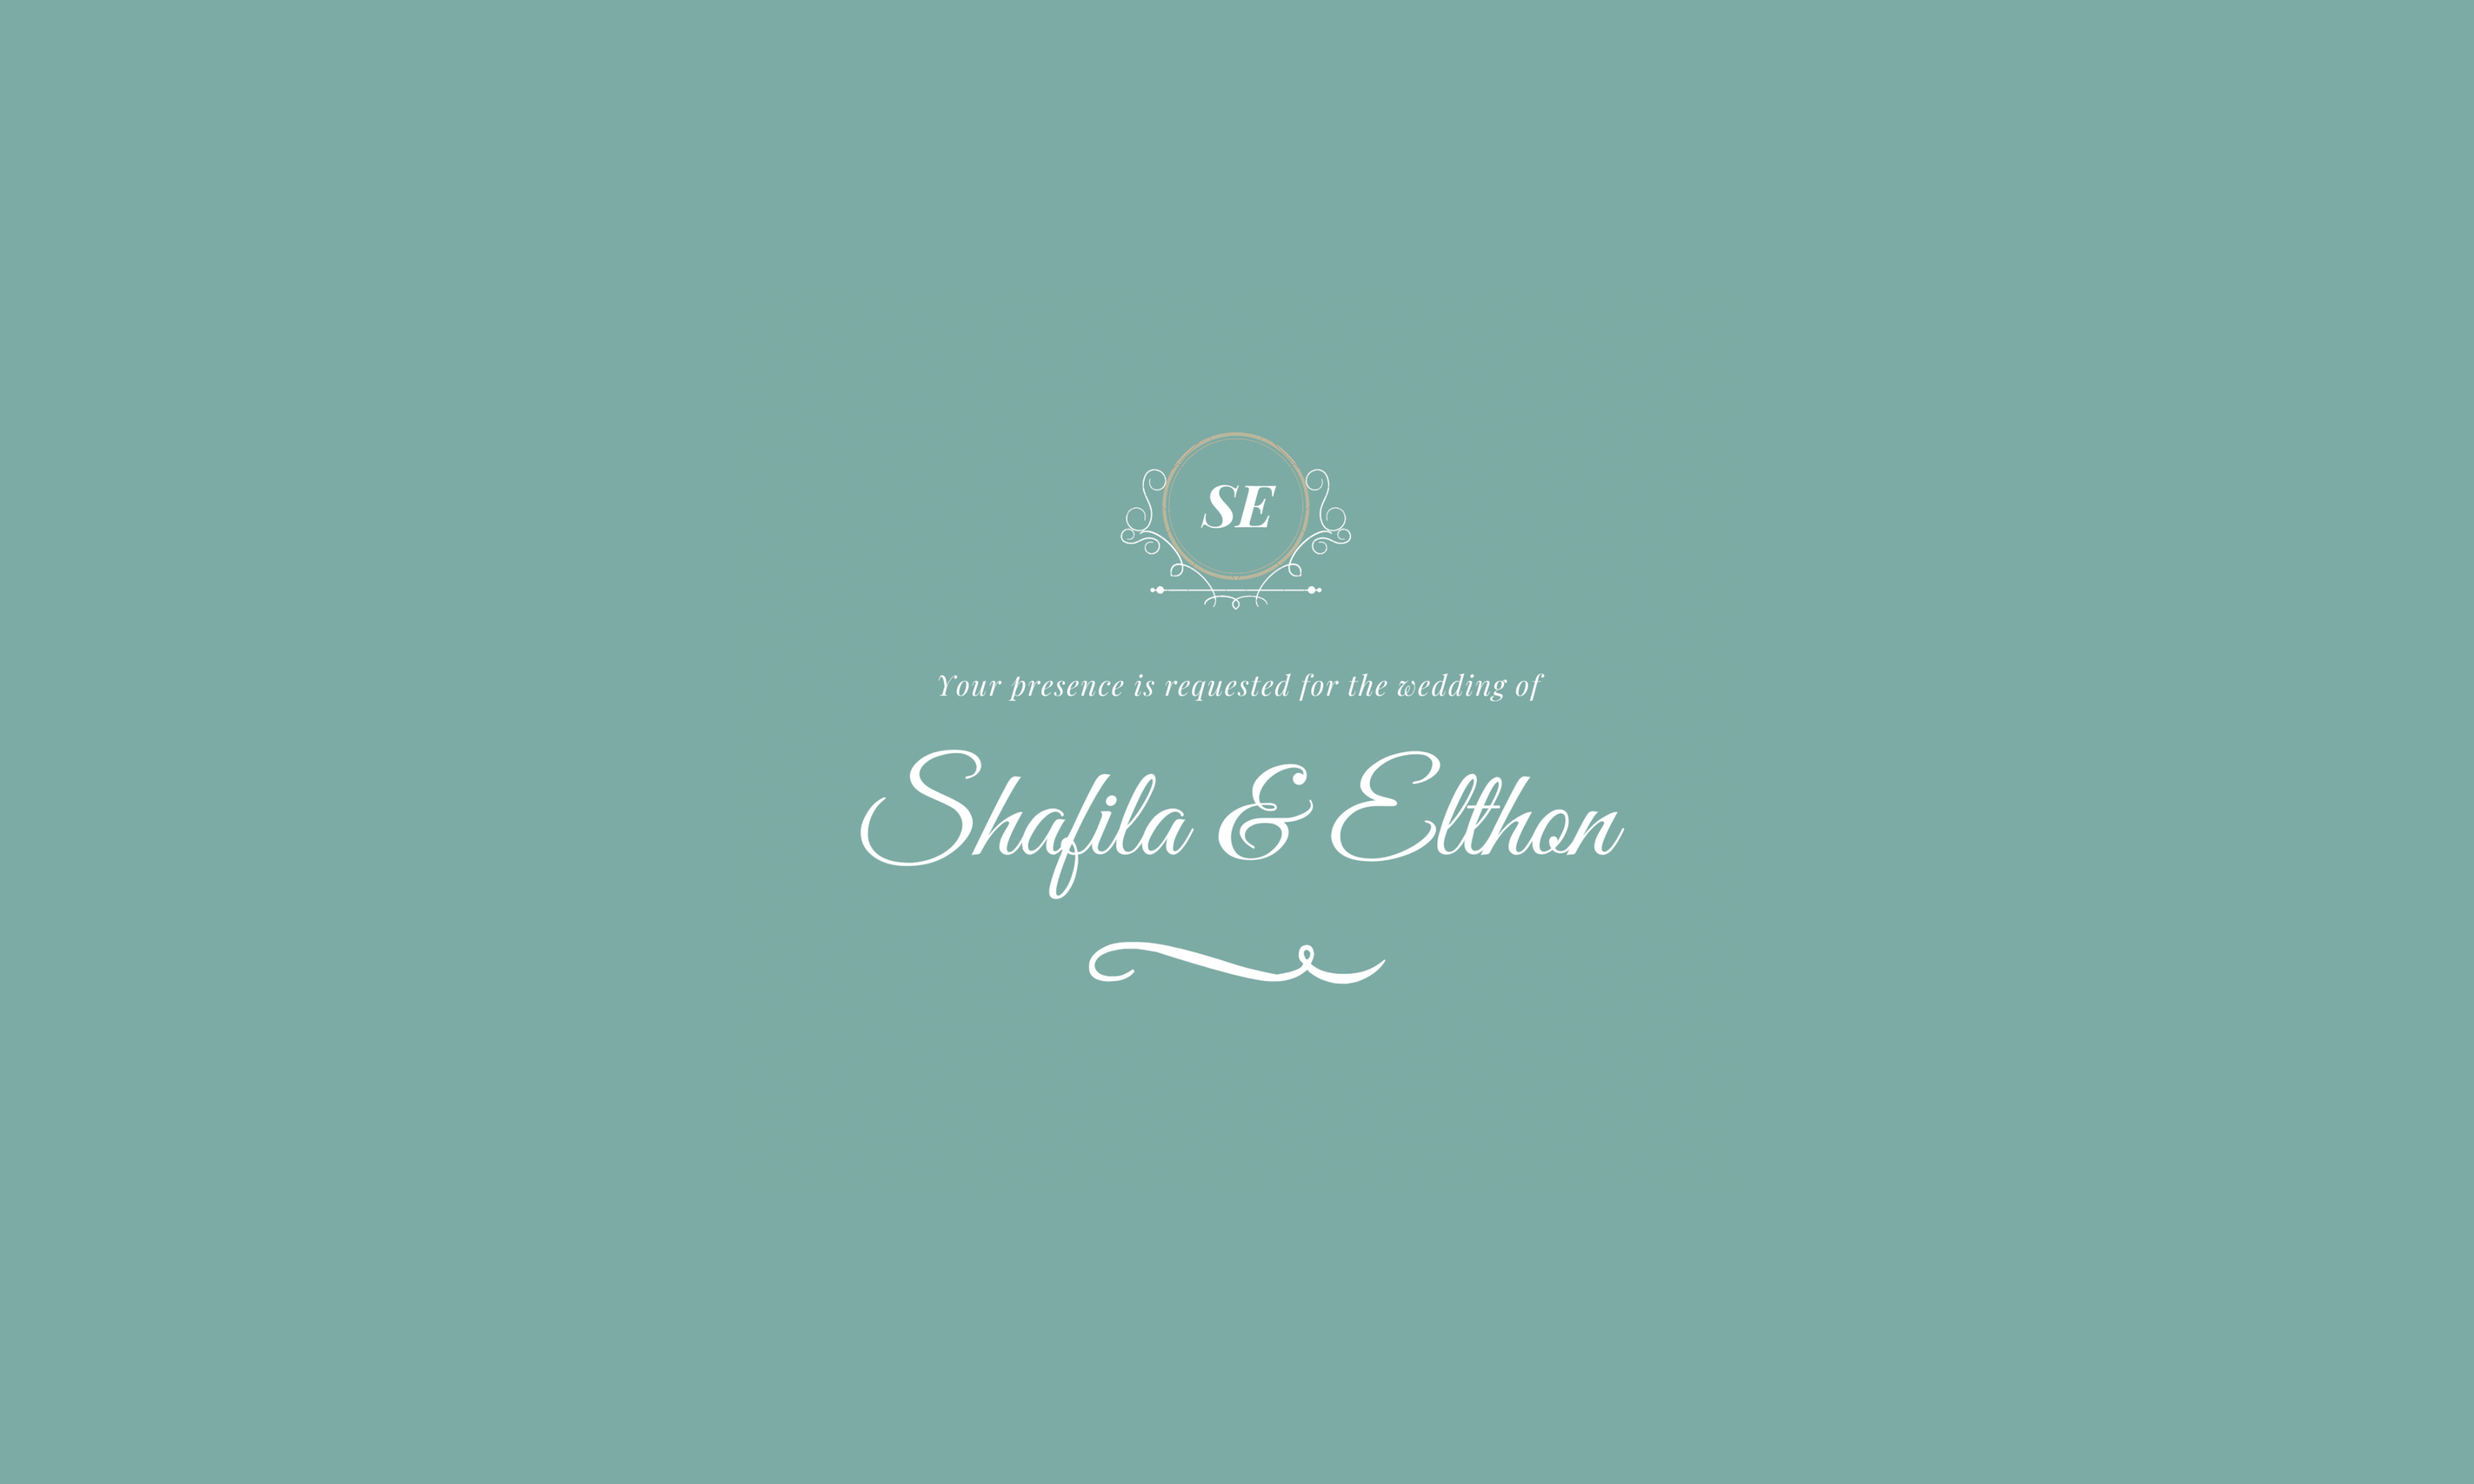
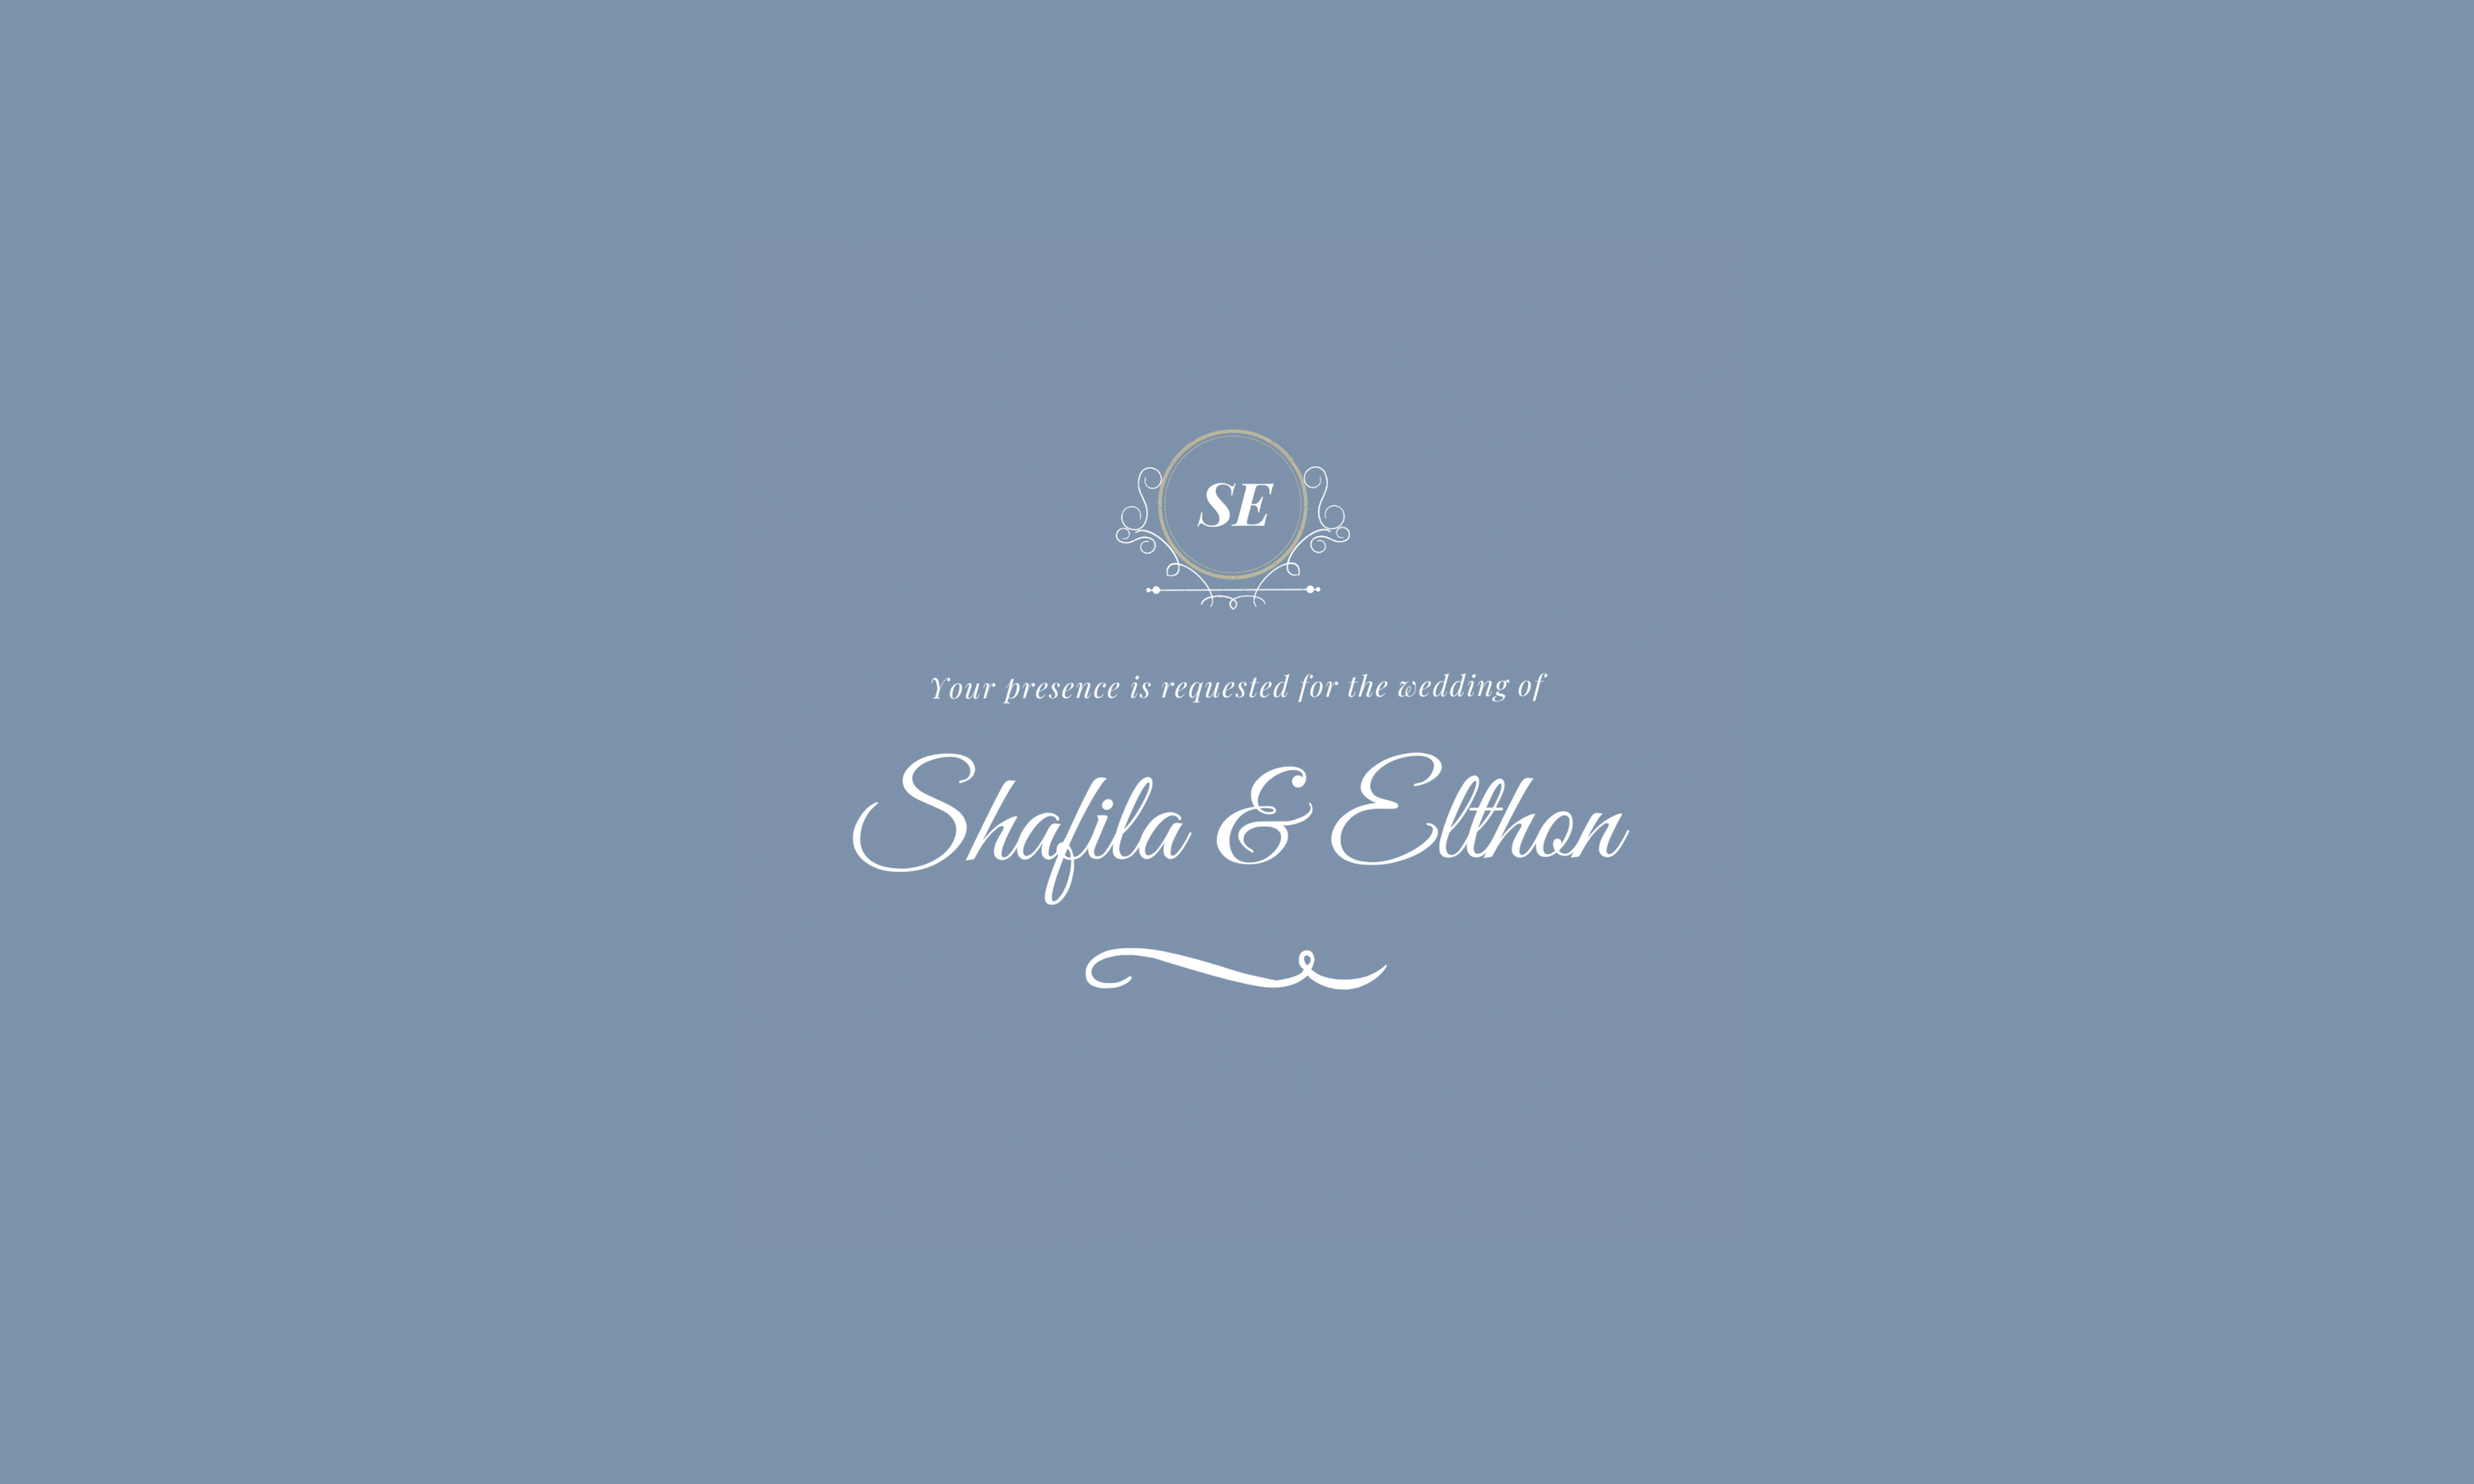
color

Changed region(s): [[0.2808, 0.155, 0.7176, 0.837]]

diff --git a/src/Pages/Couple/Couple.scss b/src/Pages/Couple/Couple.scss
@@ -1,28 +1,35 @@
 .couple {
   padding: 2em;
   min-height: 100vh;
+
   .card {
     padding: 2em 0;
     background-color: transparent;
+
     .image-bismillah {
       margin: auto;
       width: 200px;
+
       img {
         width: 100%;
       }
     }
+
     .text-muqodimah {
       width: 90%;
       margin: auto;
       font-family: "Poppins", sans-serif;
       text-align: center;
+
       .salam {
         margin-bottom: 10px;
       }
     }
+
     .couple-identity {
       margin: 30px 0;
       position: relative;
+
       .love {
         height: 60px;
         width: 60px;
@@ -38,68 +45,81 @@
         align-items: center;
         border-radius: 100%;
       }
+
       .female {
         font-family: "Poppins", sans-serif;
         display: flex;
         justify-content: flex-end;
         align-items: center;
+
         .text {
           margin-right: 20px;
-          .name{
+
+          .name {
             font-weight: 500;
           }
+
           .as {
             font-size: 12px;
             font-style: italic;
             text-align: end;
             color: gray;
           }
+
           .son {
             font-size: 12px;
             text-align: end;
             color: gray;
           }
         }
+
         .image {
           width: 120px;
           height: 120px;
-          
+
           // border-radius: 100%;
           // background-color: #968984;
           img {
-            border: 1px solid #7daaa4;
+            border: 1px solid #7D92AA;
             width: 100%;
             height: 100%;
             border-radius: 100%;
           }
         }
       }
+
       .male {
         font-family: "Poppins", sans-serif;
         display: flex;
         align-items: center;
+
         .text {
           margin-left: 20px;
-          .name{
+
+          .name {
             font-weight: 500;
           }
+
           .as {
             font-size: 12px;
             font-style: italic;
             color: gray;
           }
+
           .son {
             font-size: 12px;
             color: gray;
           }
         }
+
         .image {
           width: 120px;
           height: 120px;
           border-radius: 100%;
-          background-color: #7daaa4;
+          background-color: #7D92AA;
+
           img {
-        border: 1px solid #7daaa4;
+            border: 1px solid #7D92AA;
             border-radius: 100%;
             width: 100%;
             height: 100%;
@@ -107,39 +127,47 @@
         }
       }
     }
-    .flower{
-      .image{
+
+    .flower {
+      .image {
         width: 100px;
         margin: auto;
-        img{
+
+        img {
           width: 100%;
         }
       }
-      .image-2{
+
+      .image-2 {
         width: 80px;
         padding-top: 10px;
         margin: auto;
-        img{
+
+        img {
           width: 100%;
         }
       }
     }
-    .event{
+
+    .event {
       font-family: 'Poppins', sans-serif;
       text-align: center;
       text-align: center;
       font-size: 20px;
     }
-    .wish{
+
+    .wish {
       margin-top: 20px;
       font-size: 14px;
       text-align: center;
     }
-    .time{
+
+    .time {
       margin-top: 20px;
       display: flex;
       justify-content: center;
-      div{
+
+      div {
         display: flex;
         flex-direction: column;
         justify-content: center;
@@ -147,12 +175,13 @@
         width: 70px;
         height: 70px;
         margin: 0 2px;
-        background-color: #7daaa4;
+        background-color: #7D92AA;
         color: #fff;
         font-size: 18px;
         font-weight: 500;
         border-radius: 100%;
-        span{
+
+        span {
           font-weight: normal;
           font-size: 12px;
         }
@@ -162,12 +191,26 @@
 }
 
 
-@media (max-width: 800px){
-  .couple{
-    .card{
-      .couple-identity{
-        .love{
+@media (max-width: 800px) {
+  .couple {
+    .card {
+      .couple-identity {
+        .love {
           display: none;
+        }
+
+        .female {
+          img {
+            -webkit-transform: scaleX(-1);
+            transform: scaleX(-1);
+          }
+        }
+
+        .male {
+          img {
+            -webkit-transform: scaleX(-1);
+            transform: scaleX(-1);
+          }
         }
       }
     }

diff --git a/src/Pages/Reservation/Reservation.scss b/src/Pages/Reservation/Reservation.scss
@@ -22,7 +22,7 @@
             margin-bottom: 5px;
         }
         .form-control{
-            border-color: #7daaa4;
+            border-color: #7D92AA;
             background-color: transparent;
         }
         .btn-primary{
@@ -30,8 +30,8 @@
             padding: 5px 15px;
             cursor: pointer;
             letter-spacing: 2px;
-            background-color: #7daaa4;
-            border-color: #7daaa4;
+            background-color: #7D92AA;
+            border-color: #7D92AA;
         }
     }
 }

diff --git a/src/Pages/Protokol/Protokol.scss b/src/Pages/Protokol/Protokol.scss
@@ -1,6 +1,6 @@
 .protokol {
     padding: 2em;
-    background-color: #7daaa4;
+    background-color: #7D92AA;
     margin-bottom: 30px;
 
     .title {
@@ -19,9 +19,9 @@
         width: 50%;
 
         .card {
-            border-color: #7daaa4;
+            border-color: #7D92AA;
             width: 150px;
-            background-color: #7daaa4;
+            background-color: #7D92AA;
             margin: auto;
 
             .image {

diff --git a/src/Pages/Couple/Couple.jsx b/src/Pages/Couple/Couple.jsx
@@ -74,7 +74,7 @@ class Couple extends Component {
           <div className="couple-identity">
             <div className="love">
               <div data-aos="zoom-in">
-                <FaHeart style={{ color: "#7daaa4" }} />
+                <FaHeart style={{ color: "#7D92AA" }} />
               </div>
             </div>
             <div className="row">

diff --git a/src/Pages/Home/Home.scss b/src/Pages/Home/Home.scss
@@ -20,10 +20,10 @@
       }
       .name{
         font-family: 'Kaushan Script', cursive;
-          font-size: 48px;
+          font-size: 30px;
           font-weight: 500;
           padding: 0;
-          color: #7daaa4;
+          color: #7D92AA;
       }
       .date{
         margin-top: 15px;

diff --git a/src/Pages/Event/Event.scss b/src/Pages/Event/Event.scss
@@ -74,8 +74,8 @@
         padding: 5px 15px;
         cursor: pointer;
         letter-spacing: 2px;
-        background-color: #7daaa4;
-        border-color: #7daaa4;
+        background-color: #7D92AA;
+        border-color: #7D92AA;
       }
       // .modal .fade .show{
       //   height: none;

diff --git a/src/Pages/Wish/Wish.scss b/src/Pages/Wish/Wish.scss
@@ -13,7 +13,7 @@
         margin: 50px 0;
         width: 100%;
         height: 300px;
-        background-color: #7daaa4;
+        background-color: #7D92AA;
 
         .icon-left {
             position: absolute;

diff --git a/src/App.scss b/src/App.scss
@@ -35,7 +35,7 @@
   }
 
   .audio:hover {
-    background-color: #7daaa4;
+    background-color: #7D92AA;
   }
 }
 

diff --git a/public/index.html b/public/index.html
@@ -22,7 +22,7 @@
   </script>
 
 
-  <title>React App</title>
+  <title>Shafila-Elthon</title>
 </head>
 
 <body>
